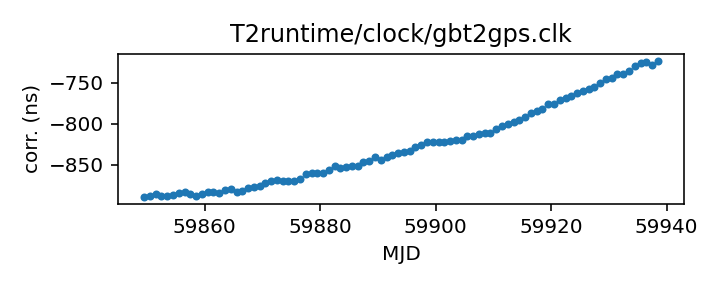
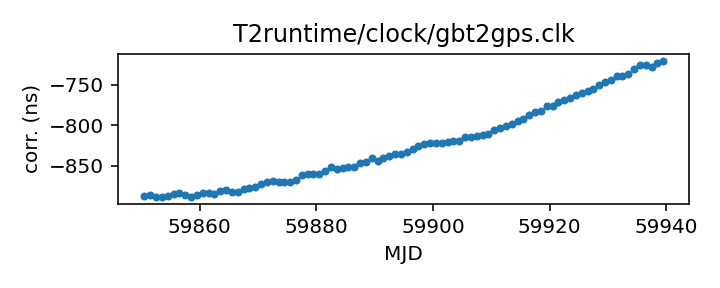
Routine gh-pages update from Github action Tue Dec 27 20:28:09 UTC 2022

diff --git a/status.md b/status.md
@@ -13,17 +13,17 @@ name of each clock file links to a page with more details.
 
 | Name | File | Corrections start | Corrections end | Last check date | Last check result 
 |:--- |:--- | --- | --- | --- |:--- 
-| [GPS to UTC](T2runtime/clock/gps2utc.clk.html) | `T2runtime/clock/gps2utc.clk` | 1993-01-01 MJD 48988.0 | 2022-11-26 MJD 59909.0 | 2022-12-26 | Unchanged 
-| [GPS to UTC (Combined Clock)](T2runtime/clock/gps2utc_cc.clk.html) | `T2runtime/clock/gps2utc_cc.clk` | 1993-01-01 MJD 48988.0 | 2022-11-26 MJD 59909.0 | 2022-12-26 | Unchanged 
-| [GPS to UTC (Corrected)](T2runtime/clock/gps2utc_c0p.clk.html) | `T2runtime/clock/gps2utc_c0p.clk` | 2010-12-29 MJD 55559.0 | 2022-11-26 MJD 59909.0 | 2022-12-26 | Unchanged 
-| [GBT](tempo/clock/time_gbt.dat.html) | `tempo/clock/time_gbt.dat` | 2000-12-31 MJD 51909.5 | 2022-12-25 MJD 59938.5 | 2022-12-26 | Updated 
-| [GBT (TEMPO2 converted from TEMPO)](T2runtime/clock/gbt2gps.clk.html) | `T2runtime/clock/gbt2gps.clk` | 2000-12-31 MJD 51909.5 | 2022-12-25 MJD 59938.5 | 2022-12-26 | Updated 
+| [GPS to UTC](T2runtime/clock/gps2utc.clk.html) | `T2runtime/clock/gps2utc.clk` | 1993-01-01 MJD 48988.0 | 2022-11-26 MJD 59909.0 | 2022-12-27 | Unchanged 
+| [GPS to UTC (Combined Clock)](T2runtime/clock/gps2utc_cc.clk.html) | `T2runtime/clock/gps2utc_cc.clk` | 1993-01-01 MJD 48988.0 | 2022-11-26 MJD 59909.0 | 2022-12-27 | Unchanged 
+| [GPS to UTC (Corrected)](T2runtime/clock/gps2utc_c0p.clk.html) | `T2runtime/clock/gps2utc_c0p.clk` | 2010-12-29 MJD 55559.0 | 2022-11-26 MJD 59909.0 | 2022-12-27 | Unchanged 
+| [GBT](tempo/clock/time_gbt.dat.html) | `tempo/clock/time_gbt.dat` | 2000-12-31 MJD 51909.5 | 2022-12-26 MJD 59939.5 | 2022-12-27 | Updated 
+| [GBT (TEMPO2 converted from TEMPO)](T2runtime/clock/gbt2gps.clk.html) | `T2runtime/clock/gbt2gps.clk` | 2000-12-31 MJD 51909.5 | 2022-12-26 MJD 59939.5 | 2022-12-27 | Updated 
 | [Jodrell Bank](T2runtime/clock/jb2gps.clk.html) | `T2runtime/clock/jb2gps.clk` | 2006-10-13 MJD 54021.4 | 2021-11-03 MJD 59521.0 | 2022-12-21 | Unchanged 
 | [Jodrell Bank Roach](T2runtime/clock/jbroach2jb.clk.html) | `T2runtime/clock/jbroach2jb.clk` | 2006-10-13 MJD 54021.4 | 2018-03-20 MJD 58197.6 | 2022-12-21 | Unchanged 
 | [Jodrell Bank DFB](T2runtime/clock/jbdfb2jb.clk.html) | `T2runtime/clock/jbdfb2jb.clk` | 2006-10-13 MJD 54021.4 | 2017-05-11 MJD 57884.0 | 2022-12-21 | Unchanged 
 | [Meerkat (observatory)](T2runtime/clock/mk2utc_observatory.clk.html) | `T2runtime/clock/mk2utc_observatory.clk` | 2019-01-01 MJD 58484.0 | 2022-12-09 MJD 59923.0 | 2022-12-26 | Unchanged 
-| [Leap seconds](tempo/clock/leap.sec.html) | `tempo/clock/leap.sec` | 1972-07-01 MJD 41499.0 | 2017-01-01 MJD 57754.0 | 2022-12-26 | Unchanged 
-| [UT1 table](tempo/clock/ut1.dat.html) | `tempo/clock/ut1.dat` | 1973-01-02 MJD 41684.0 | 2023-12-30 MJD 60308.0 | 2022-12-26 | Unchanged 
+| [Leap seconds](tempo/clock/leap.sec.html) | `tempo/clock/leap.sec` | 1972-07-01 MJD 41499.0 | 2017-01-01 MJD 57754.0 | 2022-12-27 | Unchanged 
+| [UT1 table](tempo/clock/ut1.dat.html) | `tempo/clock/ut1.dat` | 1973-01-02 MJD 41684.0 | 2023-12-30 MJD 60308.0 | 2022-12-27 | Unchanged 
 
 
 

diff --git a/T2runtime/clock/gbt2gps.clk.md b/T2runtime/clock/gbt2gps.clk.md
@@ -23,14 +23,13 @@ If questions arise about the conversion, contact Anne Archibald
 | Format | tempo2 |
 | Bogus last correction | False |
 | Clock file start | 2000-12-31 MJD 51909.5 |
-| Clock file end | 2022-12-25 MJD 59938.5 |
+| Clock file end | 2022-12-26 MJD 59939.5 |
 | Update interval (days) | 1 |
-| Last update attempt | 2022-12-26 |
+| Last update attempt | 2022-12-27 |
 | Last update result | Updated |
 
 Log entries from the last few update attempts:
 ```
-2022-12-17 20:27:00.773 - Updated
 2022-12-18 20:27:12.347 - Updated
 2022-12-19 20:29:20.215 - Updated
 2022-12-20 20:28:22.919 - Updated
@@ -40,12 +39,13 @@ Log entries from the last few update attempts:
 2022-12-24 20:26:55.282 - Updated
 2022-12-25 20:26:51.978 - Updated
 2022-12-26 20:27:34.976 - Updated
+2022-12-27 20:27:43.340 - Updated
 ```
 [Full log](https://raw.githubusercontent.com/ipta/pulsar-clock-corrections/main/log/T2runtime/clock/gbt2gps.clk.log)
 
 Leading comments from clock file:
 
-    # This file was automatically converted from tempo/clock/time_gbt.dat on 2022-12-26 20:27:34.901
+    # This file was automatically converted from tempo/clock/time_gbt.dat on 2022-12-27 20:27:43.266
 
 
 

diff --git a/tempo/clock/time_gbt.dat.md b/tempo/clock/time_gbt.dat.md
@@ -18,14 +18,13 @@ If questions arise, contact Ryan S. Lynch <rlynch@nrao.edu>.
 | Format | tempo |
 | Bogus last correction | False |
 | Clock file start | 2000-12-31 MJD 51909.5 |
-| Clock file end | 2022-12-25 MJD 59938.5 |
+| Clock file end | 2022-12-26 MJD 59939.5 |
 | Update interval (days) | 1 |
-| Last update attempt | 2022-12-26 |
+| Last update attempt | 2022-12-27 |
 | Last update result | Updated |
 
 Log entries from the last few update attempts:
 ```
-2022-12-17 20:27:00.673 - Updated
 2022-12-18 20:27:12.277 - Updated
 2022-12-19 20:29:19.946 - Updated
 2022-12-20 20:28:22.850 - Updated
@@ -35,6 +34,7 @@ Log entries from the last few update attempts:
 2022-12-24 20:26:55.200 - Updated
 2022-12-25 20:26:51.910 - Updated
 2022-12-26 20:27:34.426 - Updated
+2022-12-27 20:27:43.263 - Updated
 ```
 [Full log](https://raw.githubusercontent.com/ipta/pulsar-clock-corrections/main/log/tempo/clock/time_gbt.dat.log)
 

diff --git a/T2runtime/clock/gps2utc_c0p.clk.md b/T2runtime/clock/gps2utc_c0p.clk.md
@@ -30,12 +30,11 @@ about the BIPM's published corrections, contact <tai@bipm.org>.
 | Clock file start | 2010-12-29 MJD 55559.0 |
 | Clock file end | 2022-11-26 MJD 59909.0 |
 | Update interval (days) | 1 |
-| Last update attempt | 2022-12-26 |
+| Last update attempt | 2022-12-27 |
 | Last update result | Unchanged |
 
 Log entries from the last few update attempts:
 ```
-2022-12-17 20:26:59.617 - Unchanged
 2022-12-18 20:27:11.705 - Unchanged
 2022-12-19 20:29:19.470 - Unchanged
 2022-12-20 20:28:22.398 - Unchanged
@@ -45,6 +44,7 @@ Log entries from the last few update attempts:
 2022-12-24 20:26:54.844 - Unchanged
 2022-12-25 20:26:51.227 - Unchanged
 2022-12-26 20:27:33.645 - Unchanged
+2022-12-27 20:27:42.983 - Unchanged
 ```
 [Full log](https://raw.githubusercontent.com/ipta/pulsar-clock-corrections/main/log/T2runtime/clock/gps2utc_c0p.clk.log)
 

diff --git a/T2runtime/clock/gps2utc_cc.clk.md b/T2runtime/clock/gps2utc_cc.clk.md
@@ -29,12 +29,11 @@ about the BIPM's published corrections, contact <tai@bipm.org>.
 | Clock file start | 1993-01-01 MJD 48988.0 |
 | Clock file end | 2022-11-26 MJD 59909.0 |
 | Update interval (days) | 1 |
-| Last update attempt | 2022-12-26 |
+| Last update attempt | 2022-12-27 |
 | Last update result | Unchanged |
 
 Log entries from the last few update attempts:
 ```
-2022-12-17 20:26:59.602 - Unchanged
 2022-12-18 20:27:11.694 - Unchanged
 2022-12-19 20:29:19.459 - Unchanged
 2022-12-20 20:28:22.387 - Unchanged
@@ -44,6 +43,7 @@ Log entries from the last few update attempts:
 2022-12-24 20:26:54.830 - Unchanged
 2022-12-25 20:26:51.216 - Unchanged
 2022-12-26 20:27:33.634 - Unchanged
+2022-12-27 20:27:42.972 - Unchanged
 ```
 [Full log](https://raw.githubusercontent.com/ipta/pulsar-clock-corrections/main/log/T2runtime/clock/gps2utc_cc.clk.log)
 

diff --git a/T2runtime/clock/gps2utc.clk.md b/T2runtime/clock/gps2utc.clk.md
@@ -32,12 +32,11 @@ about the BIPM's published corrections, contact <tai@bipm.org>.
 | Clock file start | 1993-01-01 MJD 48988.0 |
 | Clock file end | 2022-11-26 MJD 59909.0 |
 | Update interval (days) | 1 |
-| Last update attempt | 2022-12-26 |
+| Last update attempt | 2022-12-27 |
 | Last update result | Unchanged |
 
 Log entries from the last few update attempts:
 ```
-2022-12-17 20:26:59.556 - Unchanged
 2022-12-18 20:27:11.662 - Unchanged
 2022-12-19 20:29:19.427 - Unchanged
 2022-12-20 20:28:22.355 - Unchanged
@@ -47,6 +46,7 @@ Log entries from the last few update attempts:
 2022-12-24 20:26:54.766 - Unchanged
 2022-12-25 20:26:51.184 - Unchanged
 2022-12-26 20:27:33.601 - Unchanged
+2022-12-27 20:27:42.938 - Unchanged
 ```
 [Full log](https://raw.githubusercontent.com/ipta/pulsar-clock-corrections/main/log/T2runtime/clock/gps2utc.clk.log)
 

diff --git a/tempo/clock/leap.sec.md b/tempo/clock/leap.sec.md
@@ -21,12 +21,11 @@ If there are any questions, contact Anne Archibald
 | File start | 1972-07-01 MJD 41499.0 |
 | File end | 2017-01-01 MJD 57754.0 |
 | Update interval (days) | 0 |
-| Last update attempt | 2022-12-26 |
+| Last update attempt | 2022-12-27 |
 | Last update result | Unchanged |
 
 Log entries from the last few update attempts:
 ```
-2022-12-23 14:18:22.009 - Unchanged
 2022-12-23 14:19:41.943 - Unchanged
 2022-12-23 14:20:22.477 - Unchanged
 2022-12-23 14:21:39.449 - Unchanged
@@ -36,5 +35,6 @@ Log entries from the last few update attempts:
 2022-12-24 20:26:55.326 - Unchanged
 2022-12-25 20:26:52.016 - Unchanged
 2022-12-26 20:27:38.645 - Unchanged
+2022-12-27 20:27:43.378 - Unchanged
 ```
 [Full log](https://raw.githubusercontent.com/ipta/pulsar-clock-corrections/main/log/tempo/clock/leap.sec.log)

diff --git a/tempo/clock/ut1.dat.md b/tempo/clock/ut1.dat.md
@@ -30,12 +30,11 @@ If there are any questions, contact Anne Archibald
 | File start | 1973-01-02 MJD 41684.0 |
 | File end | 2023-12-30 MJD 60308.0 |
 | Update interval (days) | 0 |
-| Last update attempt | 2022-12-26 |
+| Last update attempt | 2022-12-27 |
 | Last update result | Unchanged |
 
 Log entries from the last few update attempts:
 ```
-2022-12-23 14:18:22.630 - Unchanged
 2022-12-23 14:19:42.571 - Unchanged
 2022-12-23 14:20:23.091 - Unchanged
 2022-12-23 14:21:40.070 - Unchanged
@@ -45,5 +44,6 @@ Log entries from the last few update attempts:
 2022-12-24 20:27:03.803 - Unchanged
 2022-12-25 20:27:02.948 - Unchanged
 2022-12-26 20:27:49.672 - Unchanged
+2022-12-27 20:27:51.098 - Unchanged
 ```
 [Full log](https://raw.githubusercontent.com/ipta/pulsar-clock-corrections/main/log/tempo/clock/ut1.dat.log)
